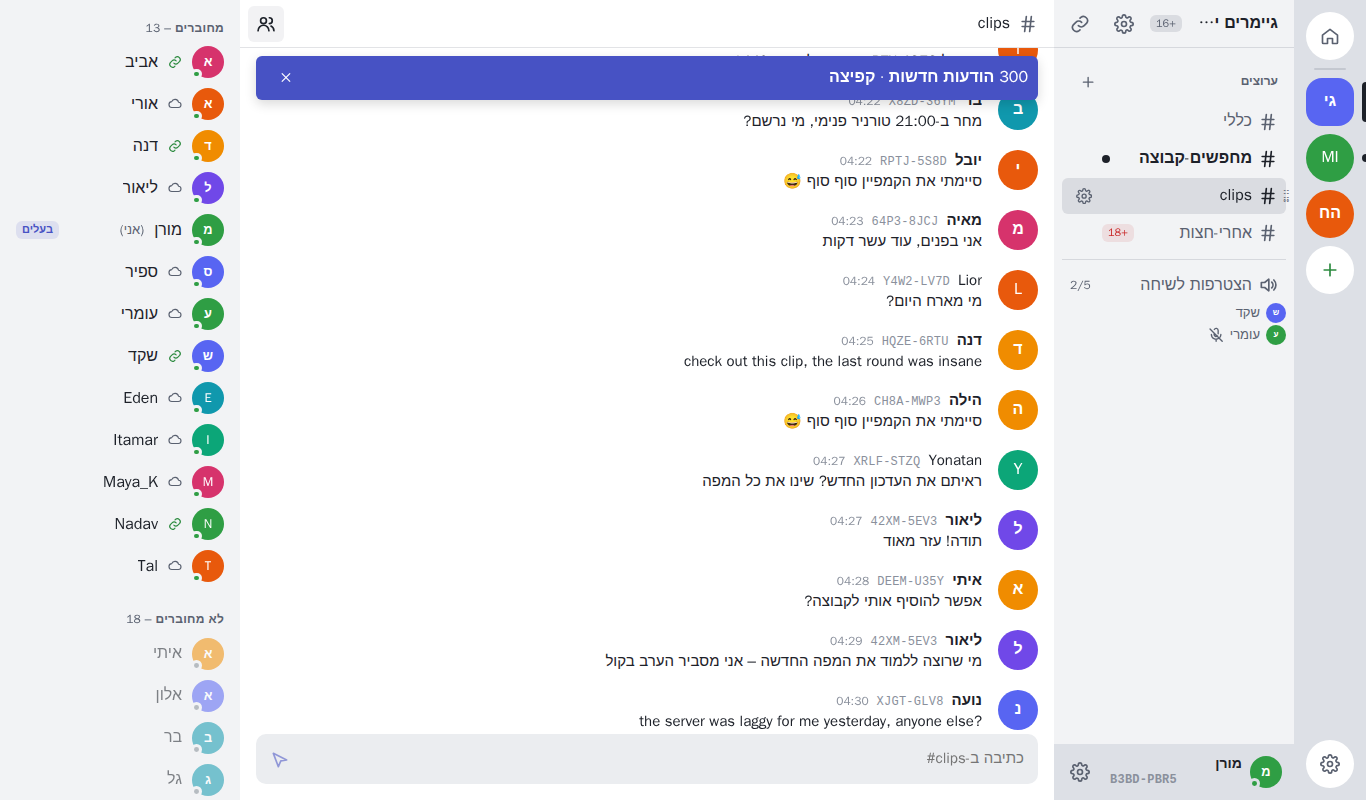
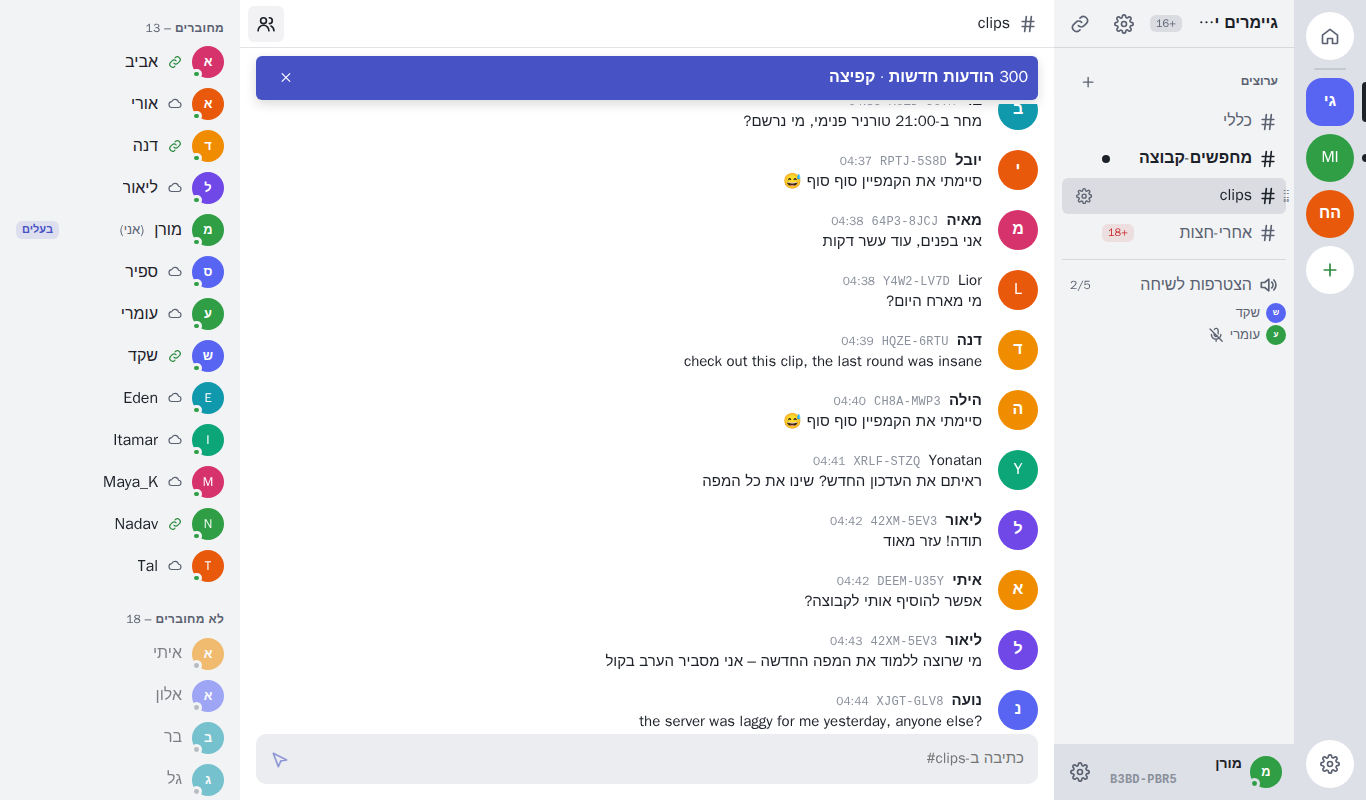
ui: the new-messages bar takes its own row above the messages (UX on #329)

diff --git a/ui/src/styles/app.css b/ui/src/styles/app.css
@@ -1217,6 +1217,8 @@ legend {
   flex: 1;
   min-height: 0;
   display: flex;
+  /* Column: the G-21 bar takes its own row above the messages. */
+  flex-direction: column;
 }
 
 .message-scroll {
@@ -3023,11 +3025,10 @@ input.switch:disabled {
   background: var(--danger);
 }
 
+/* In the flow above the messages, so it never covers the top message (UX on #329). */
 .unread-bar {
-  position: absolute;
-  inset-block-start: 0.5rem;
-  inset-inline: 1rem;
-  z-index: 3;
+  order: -1;
+  margin: 0.5rem 1rem 0.25rem;
   display: flex;
   align-items: center;
   gap: 0.25rem;
